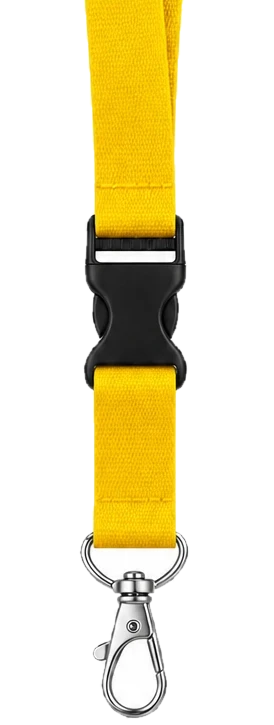
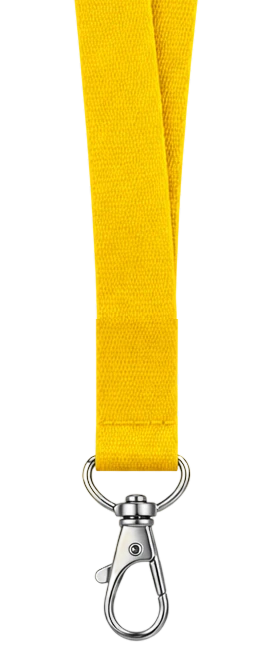
Hero badge: updated lanyard with the new hook and no buckle

Changed region(s): [[0.2628, 0.0, 0.7299, 1.0], [0.5255, 0.2462, 0.5547, 0.2769]]

diff --git a/index.html b/index.html
@@ -29,11 +29,11 @@
     .hero-actions .btn-dark { display: inline-flex; align-items: center; gap: 8px; }
     .btn-arrow { width: 16px; height: 16px; flex: none; }
     /* Hero badge: photo-real lanyard and card (js/hero-badge.js animates it). Sizes are in "u" = 1/854 of the card width. */
-    .hb-wrap { --w: clamp(230px, 21vw, 300px); --u: calc(var(--w) / 854); position: relative; width: var(--w); height: calc(var(--u) * 2169); margin: -83px auto 0; justify-self: center; align-self: start; clip-path: inset(0 -600px -600px -600px); }
-    .hb-rig { position: absolute; left: 0; right: 0; top: calc(var(--u) * -212); height: calc(var(--u) * 2381); transform-origin: 50% 0; will-change: transform; }
+    .hb-wrap { --w: clamp(230px, 21vw, 300px); --u: calc(var(--w) / 854); position: relative; width: var(--w); height: calc(var(--u) * 2041); margin: -83px auto 0; justify-self: center; align-self: start; clip-path: inset(0 -600px -600px -600px); }
+    .hb-rig { position: absolute; left: 0; right: 0; top: calc(var(--u) * -212); height: calc(var(--u) * 2253); transform-origin: 50% 0; will-change: transform; }
     .hb-wrap:not(.hb-ready) .hb-rig { visibility: hidden; }
-    .hb-lan { position: absolute; z-index: 2; left: 50%; top: 0; width: calc(var(--u) * 447); height: auto; margin-left: calc(var(--u) * -224); filter: drop-shadow(0 calc(var(--u) * 6) calc(var(--u) * 8) rgba(0,0,0,.28)); pointer-events: none; user-select: none; }
-    .hb-card { position: absolute; left: 0; top: calc(var(--u) * 1066); width: var(--w); height: calc(var(--u) * 1315); transform-origin: 50% calc(var(--u) * 79); filter: drop-shadow(0 calc(var(--u) * 14) calc(var(--u) * 18) rgba(0,0,0,.3)); }
+    .hb-lan { position: absolute; z-index: 2; left: 50%; top: 0; width: calc(var(--u) * 450); height: auto; margin-left: calc(var(--u) * -225); filter: drop-shadow(0 calc(var(--u) * 6) calc(var(--u) * 8) rgba(0,0,0,.28)); pointer-events: none; user-select: none; }
+    .hb-card { position: absolute; left: 0; top: calc(var(--u) * 938); width: var(--w); height: calc(var(--u) * 1315); transform-origin: 50% calc(var(--u) * 79); filter: drop-shadow(0 calc(var(--u) * 14) calc(var(--u) * 18) rgba(0,0,0,.3)); }
     .hb-cardimg { position: absolute; inset: 0; width: 100%; height: 100%; user-select: none; pointer-events: none; }
     .hb-photo { position: absolute; left: calc(var(--u) * 87); top: calc(var(--u) * 250); width: calc(var(--u) * 680); height: calc(var(--u) * 800); object-fit: cover; object-position: 50% 30%; border-radius: calc(var(--u) * 34); box-shadow: 0 0 0 calc(var(--u) * 6) rgba(255,255,255,.55), 0 calc(var(--u) * 6) calc(var(--u) * 14) rgba(90,55,0,.4); }
     .hb-gloss { position: absolute; left: calc(var(--u) * 87); top: calc(var(--u) * 250); width: calc(var(--u) * 680); height: calc(var(--u) * 800); border-radius: calc(var(--u) * 34); background: linear-gradient(125deg, rgba(255,255,255,.28) 0%, rgba(255,255,255,0) 38%); pointer-events: none; }
@@ -446,7 +446,7 @@
           </div>
           <div class="hb-wrap" role="img" aria-label="Olga Kalinina, product designer">
             <div class="hb-rig">
-              <img class="hb-lan" src="images/hb-lanyard.webp" alt="" width="274" height="725" decoding="async" />
+              <img class="hb-lan" src="images/hb-lanyard.webp?v=2" alt="" width="276" height="650" decoding="async" />
               <div class="hb-card">
                 <img class="hb-cardimg" src="images/hb-card.webp" alt="" width="760" height="1170" decoding="async" />
                 <img class="hb-photo" src="images/olga_hero.jpg" alt="" width="1600" height="1062" decoding="async" />
